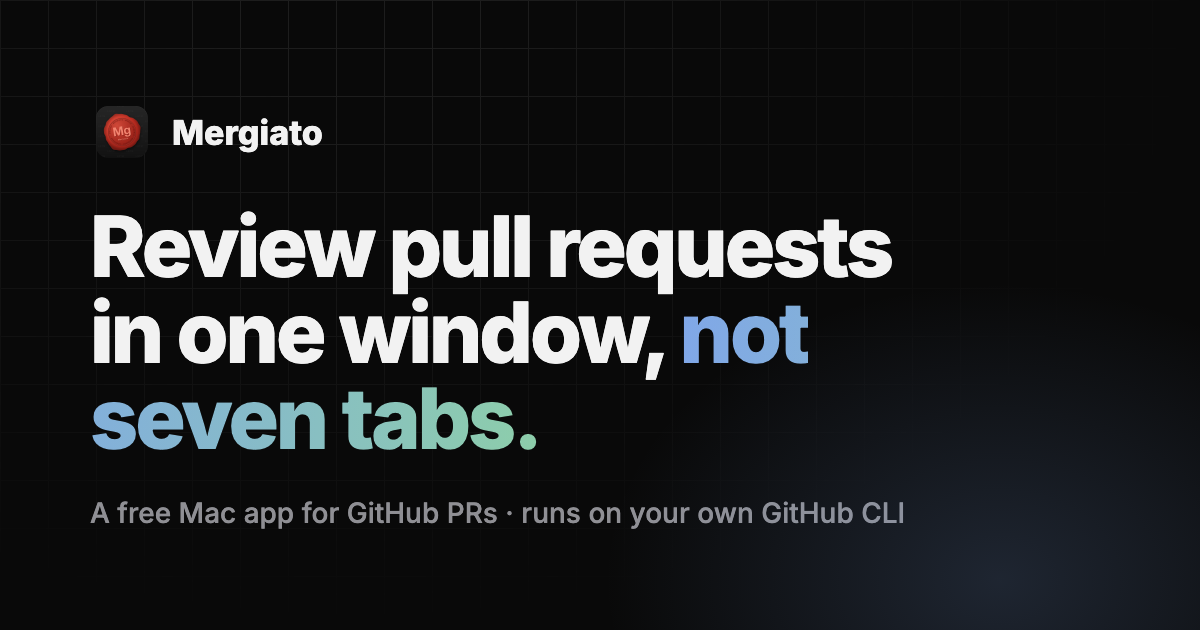
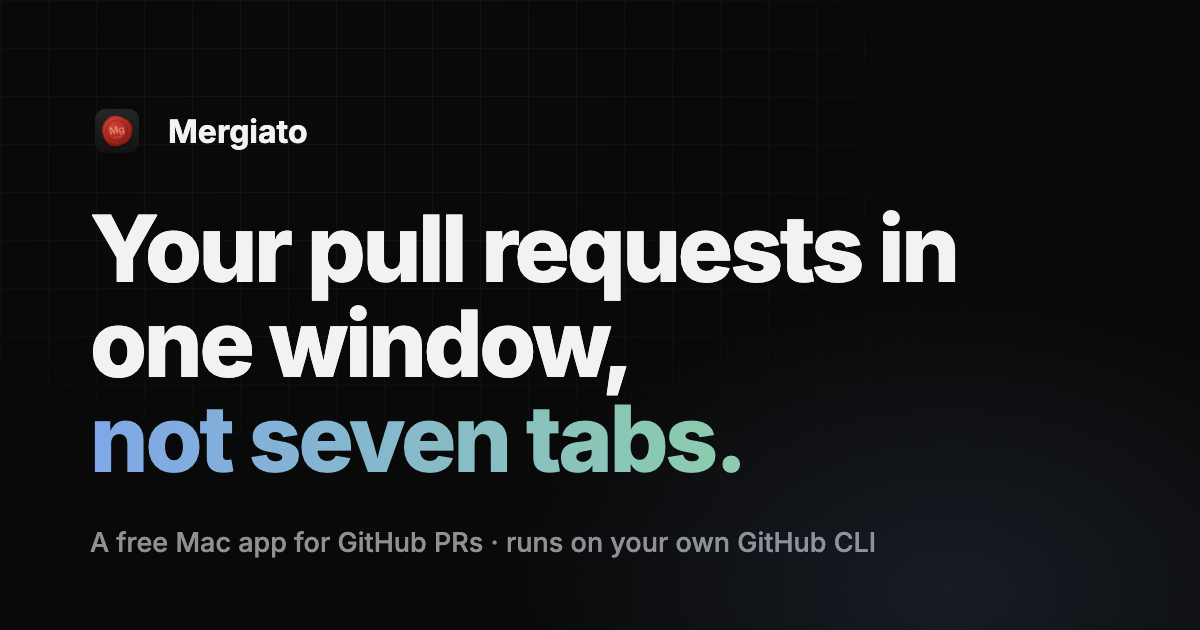
Update site

Changed region(s): [[0.0617, 0.3317, 0.8017, 0.754], [0.0617, 0.7841, 0.74, 0.8746], [0.0617, 0.1508, 0.2775, 0.2413]]

diff --git a/index.html b/index.html
@@ -3,7 +3,7 @@
   <head>
     <meta charset="utf-8" />
     <meta name="viewport" content="width=device-width, initial-scale=1" />
-    <title>Mergiato · Review GitHub pull requests on your Mac</title>
+    <title>Mergiato · GitHub pull requests on your Mac</title>
     <meta
       name="description"
       content="Mergiato is a free Mac app for reviewing GitHub pull requests: one inbox, CI checks, stacked PRs, diffs of any size, comments and merges. It runs on your own GitHub CLI."
@@ -15,22 +15,22 @@
     <meta property="og:type" content="website" />
     <meta property="og:site_name" content="Mergiato" />
     <meta property="og:url" content="https://alex-parra.github.io/mergiato-releases/" />
-    <meta property="og:title" content="Mergiato · Review pull requests in one window, not seven tabs" />
+    <meta property="og:title" content="Mergiato · Your pull requests in one window, not seven tabs" />
     <meta
       property="og:description"
       content="A free Mac app for GitHub pull requests: inbox, checks, stacks, diffs, threads, previews and merges. Runs on your own GitHub CLI."
     />
-    <meta property="og:image" content="https://alex-parra.github.io/mergiato-releases/og.png" />
+    <meta property="og:image" content="https://alex-parra.github.io/mergiato-releases/og.png?v=2" />
     <meta property="og:image:width" content="1200" />
     <meta property="og:image:height" content="630" />
-    <meta property="og:image:alt" content="Mergiato: review pull requests in one window, not seven tabs." />
+    <meta property="og:image:alt" content="Mergiato: your pull requests in one window, not seven tabs." />
     <meta name="twitter:card" content="summary_large_image" />
-    <meta name="twitter:title" content="Mergiato · Review pull requests in one window, not seven tabs" />
+    <meta name="twitter:title" content="Mergiato · Your pull requests in one window, not seven tabs" />
     <meta
       name="twitter:description"
       content="A free Mac app for GitHub pull requests. Runs on your own GitHub CLI: no org app, no servers, no account."
     />
-    <meta name="twitter:image" content="https://alex-parra.github.io/mergiato-releases/og.png" />
+    <meta name="twitter:image" content="https://alex-parra.github.io/mergiato-releases/og.png?v=2" />
     <meta name="theme-color" content="#090909" />
     <link rel="icon" href="favicon.png" />
     <link rel="apple-touch-icon" href="icon.png" />
@@ -66,7 +66,7 @@
             "downloadUrl": "https://github.com/alex-parra/mergiato-releases/releases/latest",
             "releaseNotes": "https://github.com/alex-parra/mergiato-releases/releases",
             "image": "https://alex-parra.github.io/mergiato-releases/icon.png",
-            "screenshot": "https://alex-parra.github.io/mergiato-releases/og.png",
+            "screenshot": "https://alex-parra.github.io/mergiato-releases/og.png?v=2",
             "isAccessibleForFree": true,
             "offers": { "@type": "Offer", "price": "0", "priceCurrency": "USD", "description": "Free during the beta" },
             "featureList": [
@@ -1929,11 +1929,11 @@
       <div class="hero" id="top">
         <div class="wrap">
           <span class="pill">Free beta · macOS · under 5 MB</span>
-          <h1>Review pull requests in one window, <em>not seven tabs.</em></h1>
+          <h1>Your pull requests in one window, <em>not seven tabs.</em></h1>
           <p class="lead">
-            Mergiato is a Mac app for GitHub pull requests. Your inbox, checks, stacks, diffs, threads, previews and the
-            merge button, side by side. It runs on <b>the GitHub CLI you already use</b>, so your org has nothing to
-            approve.
+            Mergiato is a Mac app for GitHub pull requests. Review the diff, re-run the failed check, step through the
+            stack and merge, all from the PR. It runs on <b>the GitHub CLI you already use</b>, so your org has nothing
+            to approve.
           </p>
           <div class="actions">
             <a class="button" data-download href="https://github.com/alex-parra/mergiato-releases/releases/latest">
